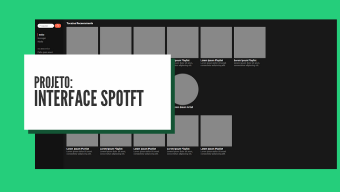
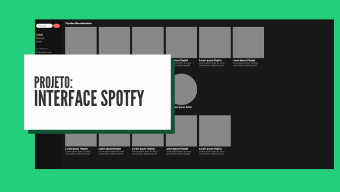
Container

diff --git a/src/pages/ProjectsPages/TEMPLATEAPP/index.js b/src/pages/ProjectsPages/TEMPLATEAPP/index.js
@@ -16,7 +16,7 @@ export default function TEMPLATEAPP() {
       <Pages
         ProjectName="Template APP"
         ProjectDescription="Template de um aplicativo. Desenvolvido com objetivo de estudar React-Native. Projeto realizado no dia 04/04/2020.Aplicação idealizada em React-Native, com auxílio do Expo-cli."
-        disableDesc={true}
+        disableDesc
         RepositoryLink="https://github.com/ViniciusCrisol/TemplateApp"
       />
       <ImagsProjCell>

diff --git a/src/components/ProjectContainer/styles.js b/src/components/ProjectContainer/styles.js
@@ -4,7 +4,7 @@ export const Item = styled.div`
   width: 90%;
   margin: 8px 6px;
   max-width: 340px;
-  height: auto;
+  height: 290px;
   background-color: white;
   box-shadow: 4px 4px 6px -2px rgba(0, 0, 0, 0.35);
 
@@ -14,7 +14,8 @@ export const Item = styled.div`
   }
 
   img {
-    width: 100%;
+    width: 340px;
+    height: 192px;
     background: #eee;
   }
   footer {
